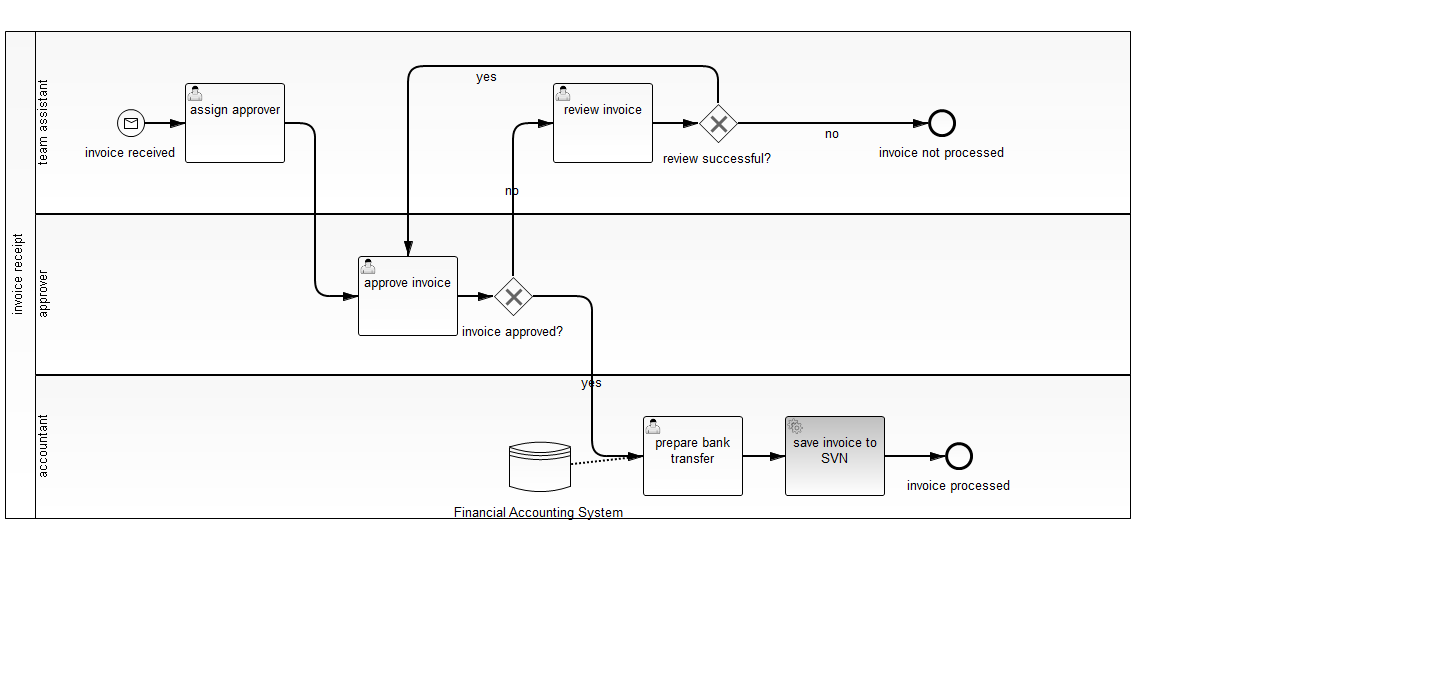
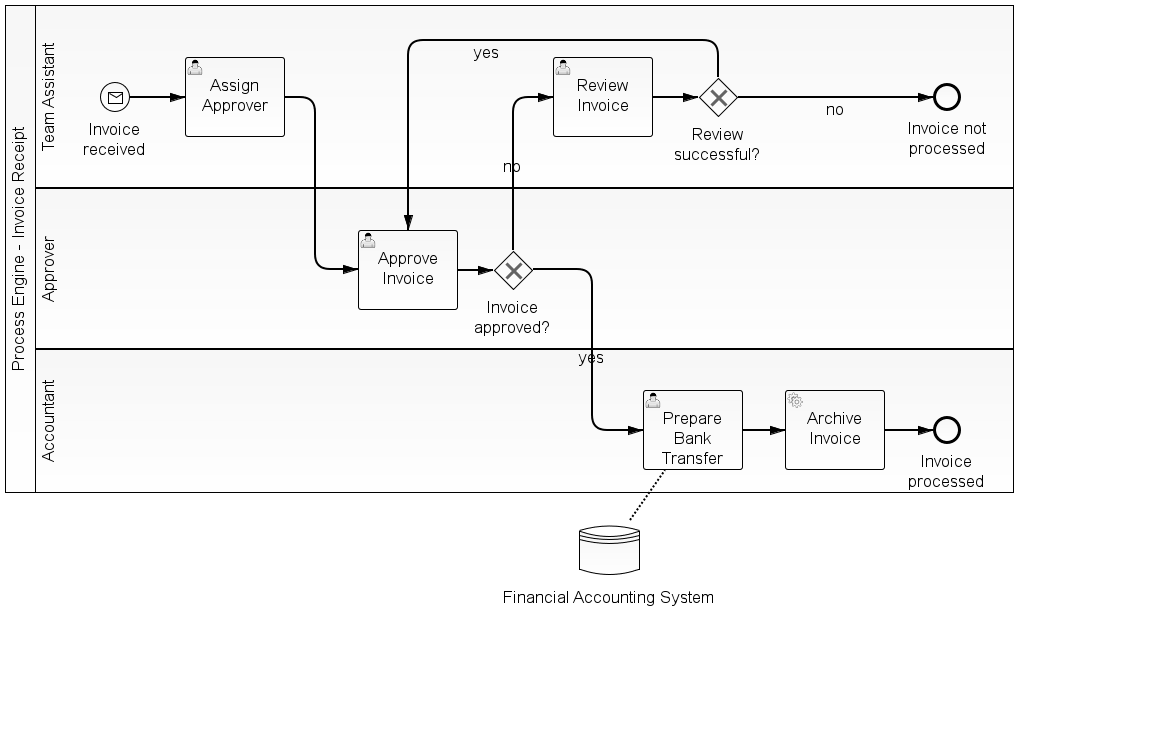
style(invoice-en): improve naming of several parts

diff --git a/invoice-en/src/main/webapp/index.html b/invoice-en/src/main/webapp/index.html
@@ -75,7 +75,7 @@
 					<tr>
 						<td>
 							<p>
-							The process application requires the tasklist and does not bring a tasklist on its own.
+							The process application requires camunda Tasklist and does not bring a tasklist on its own.
 							</p>
 						</td>
 						<td >
@@ -87,7 +87,7 @@
 					<tr>
 						<td>
 							<p>
-							Almost all the assignements in the user tasks (attribute "assignee" in user task) point at the user name "kermit". The only exception is "approve invoice". Here, a variable "approver" is set in the attribute "assignee", which is set in the JSF form "assignApprover" via a select box.
+							Almost all the assignments in the user tasks (attribute "assignee" in user task) point at the user name "kermit". The only exception is "approve invoice". Here, a variable "approver" is set in the attribute "assignee", which is set in the JSF form "assignApprover" via a select box.
 							</p>
 						</td>
 						<td >
@@ -163,12 +163,12 @@
 			</div>
 			<div class="tab-pane fade" id="process">
 			 <h2>Different Process Models</h2>
-			 <p>This showcase shows, how the BPMN 2-export from different tools can be used in order to be run in camunda fox. For each export one process will be deployed, including the image file of the diagram from the correspondng tool.</p>
+			 <p>This showcase shows, how the BPMN 2-export from different tools can be used in order to be run in camunda BPM. For each export one process will be deployed, including the image file of the diagram from the corresponding tool.</p>
 	         <div class="accordion" id="accordion2">
 	            <div class="accordion-group">
 	              <div class="accordion-heading">
 	                <a class="accordion-toggle" data-toggle="collapse" data-parent="#accordion2" href="#fox-invoice">
-	                  fox designer (manufacturer: camunda)
+	                  camunda Modeler (manufacturer: camunda)
 	                </a>
 	              </div>
 	              <div id="fox-invoice" class="accordion-body collapse">

diff --git a/invoice-en/src/test/java/com/camunda/fox/showcase/invoice/inmem/InvoiceTestCase.java b/invoice-en/src/test/java/com/camunda/fox/showcase/invoice/inmem/InvoiceTestCase.java
@@ -33,7 +33,7 @@ public class InvoiceTestCase extends ProcessEngineTestCase {
 		assertEquals("approveInvoice", tasks.get(0).getTaskDefinitionKey());
 		assertEquals("somebody", tasks.get(0).getAssignee());
 		
-		Mocks.register("svnService", new SvnDelegateMock());
+		Mocks.register("archiveService", new SvnDelegateMock());
 		
 		variables = new HashMap<String, Object>();
 		variables.put("approved", Boolean.TRUE);

diff --git a/invoice-en/src/main/java/com/camunda/fox/showcase/invoice/en/StorePDFDelegate.java b/invoice-en/src/main/java/com/camunda/fox/showcase/invoice/en/StorePDFDelegate.java
@@ -34,7 +34,7 @@ import org.tmatesoft.svn.core.io.SVNRepository;
 import org.tmatesoft.svn.core.io.diff.SVNDeltaGenerator;
 
 @SuppressWarnings("cdi-ambiguous-name") // we have a mock providing the same name
-@Named("svnService")
+@Named("archiveService")
 public class StorePDFDelegate implements JavaDelegate {
 
   private String svnUrl = "https://camunda-jakob/svn/archive/invoices/";

diff --git a/invoice-en/src/test/java/com/camunda/fox/showcase/invoice/arquillian/ArquillianTestCase.java b/invoice-en/src/test/java/com/camunda/fox/showcase/invoice/arquillian/ArquillianTestCase.java
@@ -26,7 +26,7 @@ import com.camunda.fox.showcase.invoice.test.mock.SvnDelegateMock;
 
 @RunWith(Arquillian.class)
 public class ArquillianTestCase {
-  static String process ="fox-invoice-en";
+  static String process ="camunda-invoice-en";
 //    static String process ="signavio-invoice-en";
 
   @Deployment  

diff --git a/invoice-en/src/test/java/com/camunda/fox/showcase/invoice/test/mock/SvnDelegateMock.java b/invoice-en/src/test/java/com/camunda/fox/showcase/invoice/test/mock/SvnDelegateMock.java
@@ -8,7 +8,7 @@ import org.camunda.bpm.engine.delegate.JavaDelegate;
 
 
 @SuppressWarnings("cdi-ambiguous-name")
-@Named("svnService")
+@Named("archiveService")
 @ApplicationScoped
 public class SvnDelegateMock implements JavaDelegate{
 
